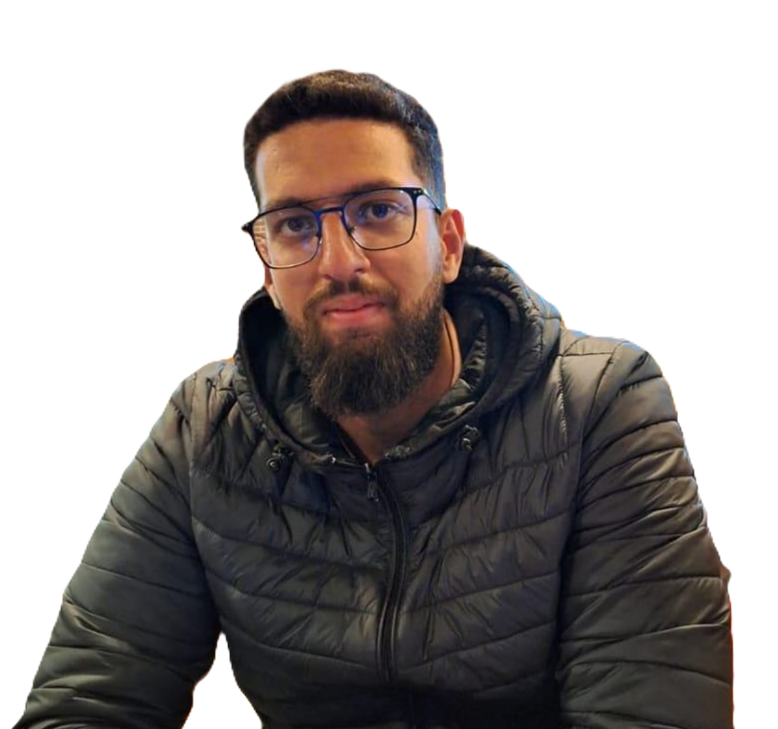
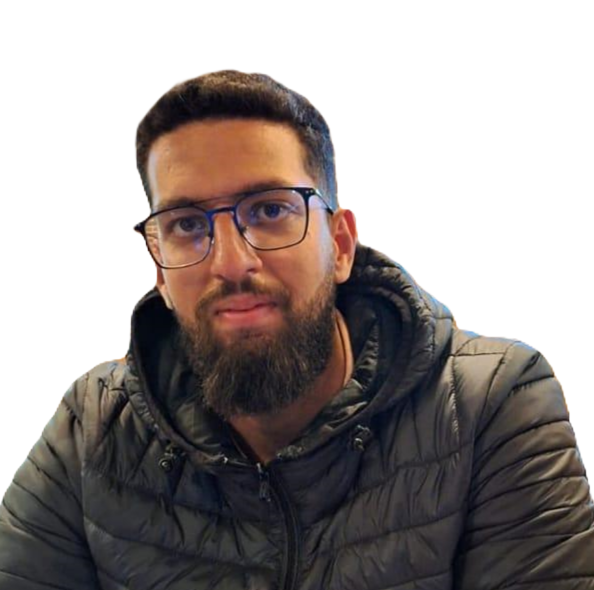
changements des photos

diff --git a/about.html b/about.html
@@ -214,7 +214,7 @@
         </div>
         <div class="row justify-content-center">
             <!-- Présidente -->
-            <div class="col-lg-6 col-md-6">
+            <div class="col-lg-4 col-md-6">
                 <div class="team-item">
                     <div class="team-img">
                         <img src="img/sarrapro.png" alt="Image Présidente">
@@ -231,14 +231,12 @@
                     </div>
                 </div>
             </div>
-        </div>
 
-        <div class="row justify-content-center">
             <!-- Vice-présidente -->
-            <div class="col-lg-6 col-md-6">
+            <div class="col-lg-4 col-md-6">
                 <div class="team-item">
                     <div class="team-img">
-                        <img src="img/zeinebpro.png" alt="Image Vice-présidente">
+                        <img src="img/zeineb1.jpg" alt="Image Vice-présidente">
                     </div>
                     <div class="team-text">
                         <h2>Zineb Haj Romdhane</h2>
@@ -252,11 +250,9 @@
                     </div>
                 </div>
             </div>
-        </div>
 
-        <div class="row">
             <!-- Secrétaire Général -->
-            <div class="col-lg-3 col-md-6">
+            <div class="col-lg-4 col-md-6">
                 <div class="team-item">
                     <div class="team-img">
                         <img src="img/medalipro.png" alt="Image Secrétaire Général">
@@ -273,9 +269,11 @@
                     </div>
                 </div>
             </div>
+        </div>
 
+        <div class="row justify-content-center">
             <!-- Trésorier -->
-            <div class="col-lg-3 col-md-6">
+            <div class="col-lg-4 col-md-6">
                 <div class="team-item">
                     <div class="team-img">
                         <img src="img/oussemapro.png" alt="Image Trésorier">
@@ -294,7 +292,7 @@
             </div>
 
             <!-- Directeur de la Stratégie Politique -->
-            <div class="col-lg-3 col-md-6">
+            <div class="col-lg-4 col-md-6">
                 <div class="team-item">
                     <div class="team-img">
                         <img src="img/ghanempro.png" alt="Image Directeur Stratégie Politique">
@@ -313,7 +311,7 @@
             </div>
 
             <!-- Responsable de la Stratégie Digitale et des Médias -->
-            <div class="col-lg-3 col-md-6">
+            <div class="col-lg-4 col-md-6">
                 <div class="team-item">
                     <div class="team-img">
                         <img src="img/mahdipro.png" alt="Image Responsable Stratégie Digitale">
@@ -334,7 +332,6 @@
     </div>
 </div>
 <!-- Équipe Fin -->
-
 
 
            <!-- Newsletter Start -->
